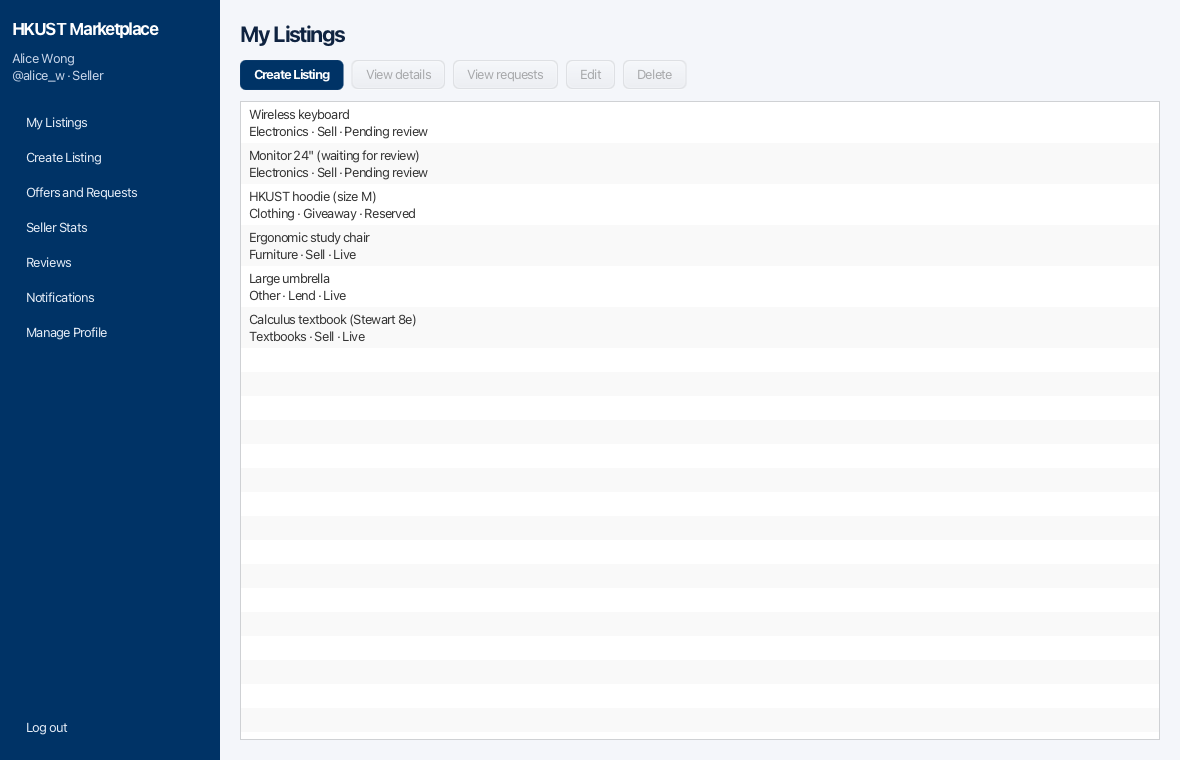
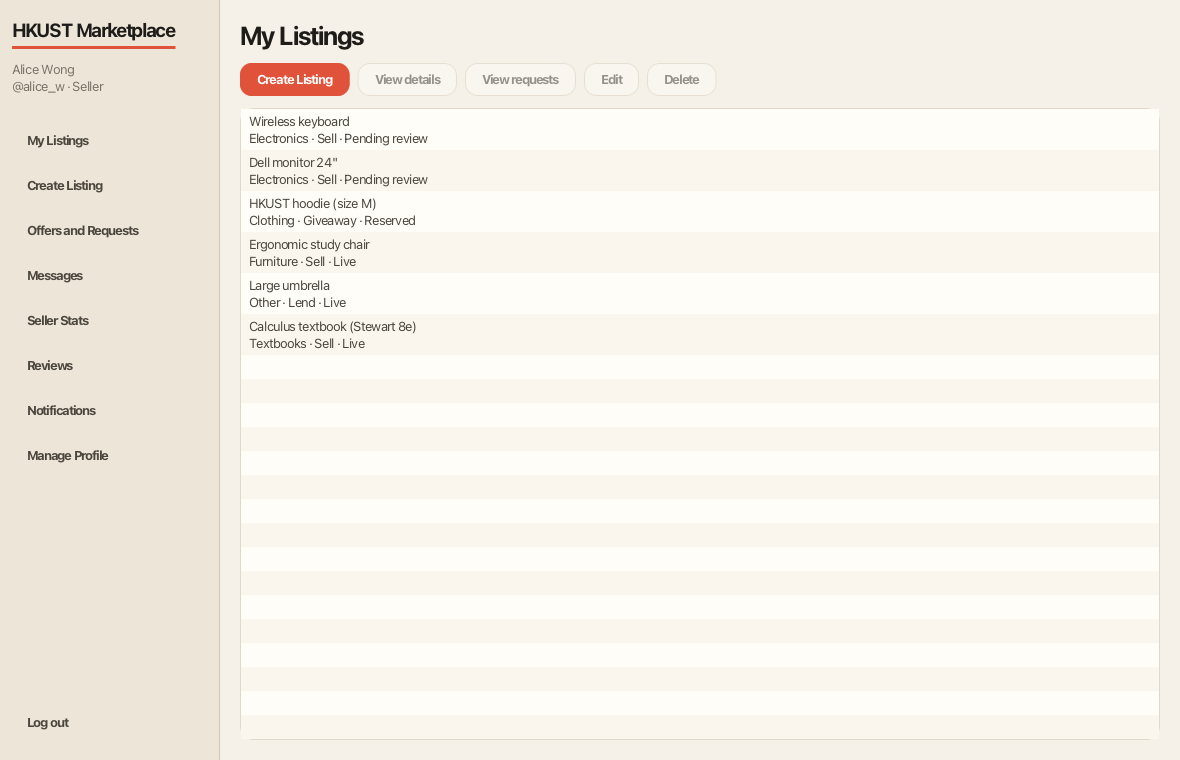
Refresh Seller Portal screenshots for the redesigned theme

Changed region(s): [[0.0, 0.0, 0.6102, 1.0]]

diff --git a/docs/Task2_Supplementary_Notes.md b/docs/Task2_Supplementary_Notes.md
@@ -79,13 +79,16 @@ and draft these notes.
 
 ## Seller Portal screenshots
 
+These screenshots were recaptured from the integrated build at commit `15e22d7`,
+including the redesigned theme and the seller Messages tab.
+
 | Subtask | Sample input or output |
 |---|---|
 | 2.1 | [Seller registration form](task2-screenshots/02-seller-registration.png) |
 | 2.2 | [Seller login form](task2-screenshots/01-seller-login.png) |
 | 2.3 | [HK$75.50 keyboard listing form](task2-screenshots/03-create-listing.png) |
 | 2.4 | [My Listings with the new item pending review](task2-screenshots/04-pending-listing.png) |
-| 2.5 | [Incoming HK$120 offer](task2-screenshots/05-pending-offer.png) and [HK$140 counter with seller message](task2-screenshots/06-counter-and-chat.png) |
+| 2.5 | [Incoming HK$120 offer](task2-screenshots/05-pending-offer.png) and [HK$140 counter with seller message](task2-screenshots/06-counter-and-chat.png). The [Messages tab](task2-screenshots/11-seller-messages.png) lists the conversation. |
 | 2.6 | [Updated seller profile](task2-screenshots/08-updated-profile.png) |
 | 2.7 | [Timestamped seller request notification](task2-screenshots/07-seller-notifications.png) |
 | 2.8 | [Seller totals, bar chart and pie chart](task2-screenshots/10-seller-stats.png) |
